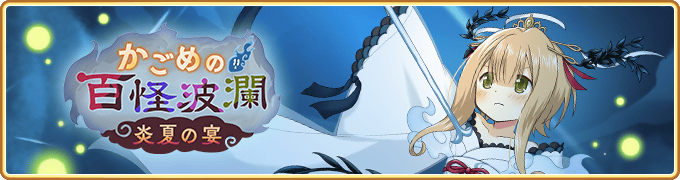
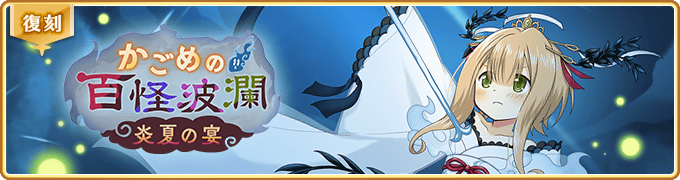
Kagome's Hundred Monsters Update

diff --git a/js/data.js b/js/data.js
@@ -324,8 +324,8 @@ var timerData = [
 		{
         "type": "Event",
         "title": [
-            "【Login Story】Future Relationships ~Current Status with our Sister~",
-			"『未来への装関関係 ～お姉さまとの現在地～』"
+            "【Login Story】Future Relationships ~A Fun Evening~",
+			"『未来への装関関係 ～楽しい夕べに～』"
         ],
         "image": [
 			"imgs/camp/story.png"
@@ -335,7 +335,7 @@ var timerData = [
         "timers": [
 			{
 				name: "",
-				start: "June 1 2024, 00:00",
+				start: "June 13 2024, 00:00",
 				end: "July 16 2024, 14:59",
 				markers:
 				[{title: "Story Quests 11～20 & 100 Evils Special Challenge Quests Ⅰ～Ⅲ", time: "feb 13 2024, 16:00", type: "battle"}]
@@ -487,22 +487,22 @@ var timerData = [
 	{
         "type": "Event",
         "title": [
-            "【New Gatcha】 Puella Historia ・ Amaryllis Pickup Gacha",
-			"『ピュエラ・ヒストリア 邪馬台国の跡目編』"
+            "【New Gatcha】 Kagome's Hundred Monsters ~Burning Summer Banquet~",
+			"『かごめの百怪波瀾～炎夏の宴～』"
         ],
         "image": [
-			"imgs/gatcha/akuma01.png"
+			"imgs/events/event04.png"
         ],
         "column": 0,
         "priority": 1,
         "timers": [
 			{
-				name: "",
-				start: "june 26 2024, 16:00",
-				end: "July 10 2023, 14:59",
-				extraPriority: 100,
+				name: "Repeat- Kagome Hyakki Yagyou ver. obtained in Choose 4★ Gacha",
+				start: "june 12 2024, 16:00",
+				end: "june 24 2024, 14:59",
+				//extraPriority: 100,
 				markers:
-				[{title: "Story Quests 16-30 & 100Evils I~III", time: "july 3 2023, 16:00", type: "battle"}]
+				[{title: "Story Quests 11-20 & 100Evils I~III", time: "june 17 2023, 16:00", type: "battle"}]
 			}
         ]
     },
@@ -583,9 +583,9 @@ var timerData = [
 		priority: 3,
 		timers: [	
 			{
-				name: "Iroha・Kuroe - Peach",
-				start: "may 10 2024, 16:00",
-				end: "may 27 2024, 14:59",
+				name: "Choose Your Limited 4★ Magical Girl - Lime Green",
+				start: "jun 1 2024, 00:00",
+				end: "july 31 2024, 14:59",
 			},
 			{
 				name: "Shi - Navy Blue",
